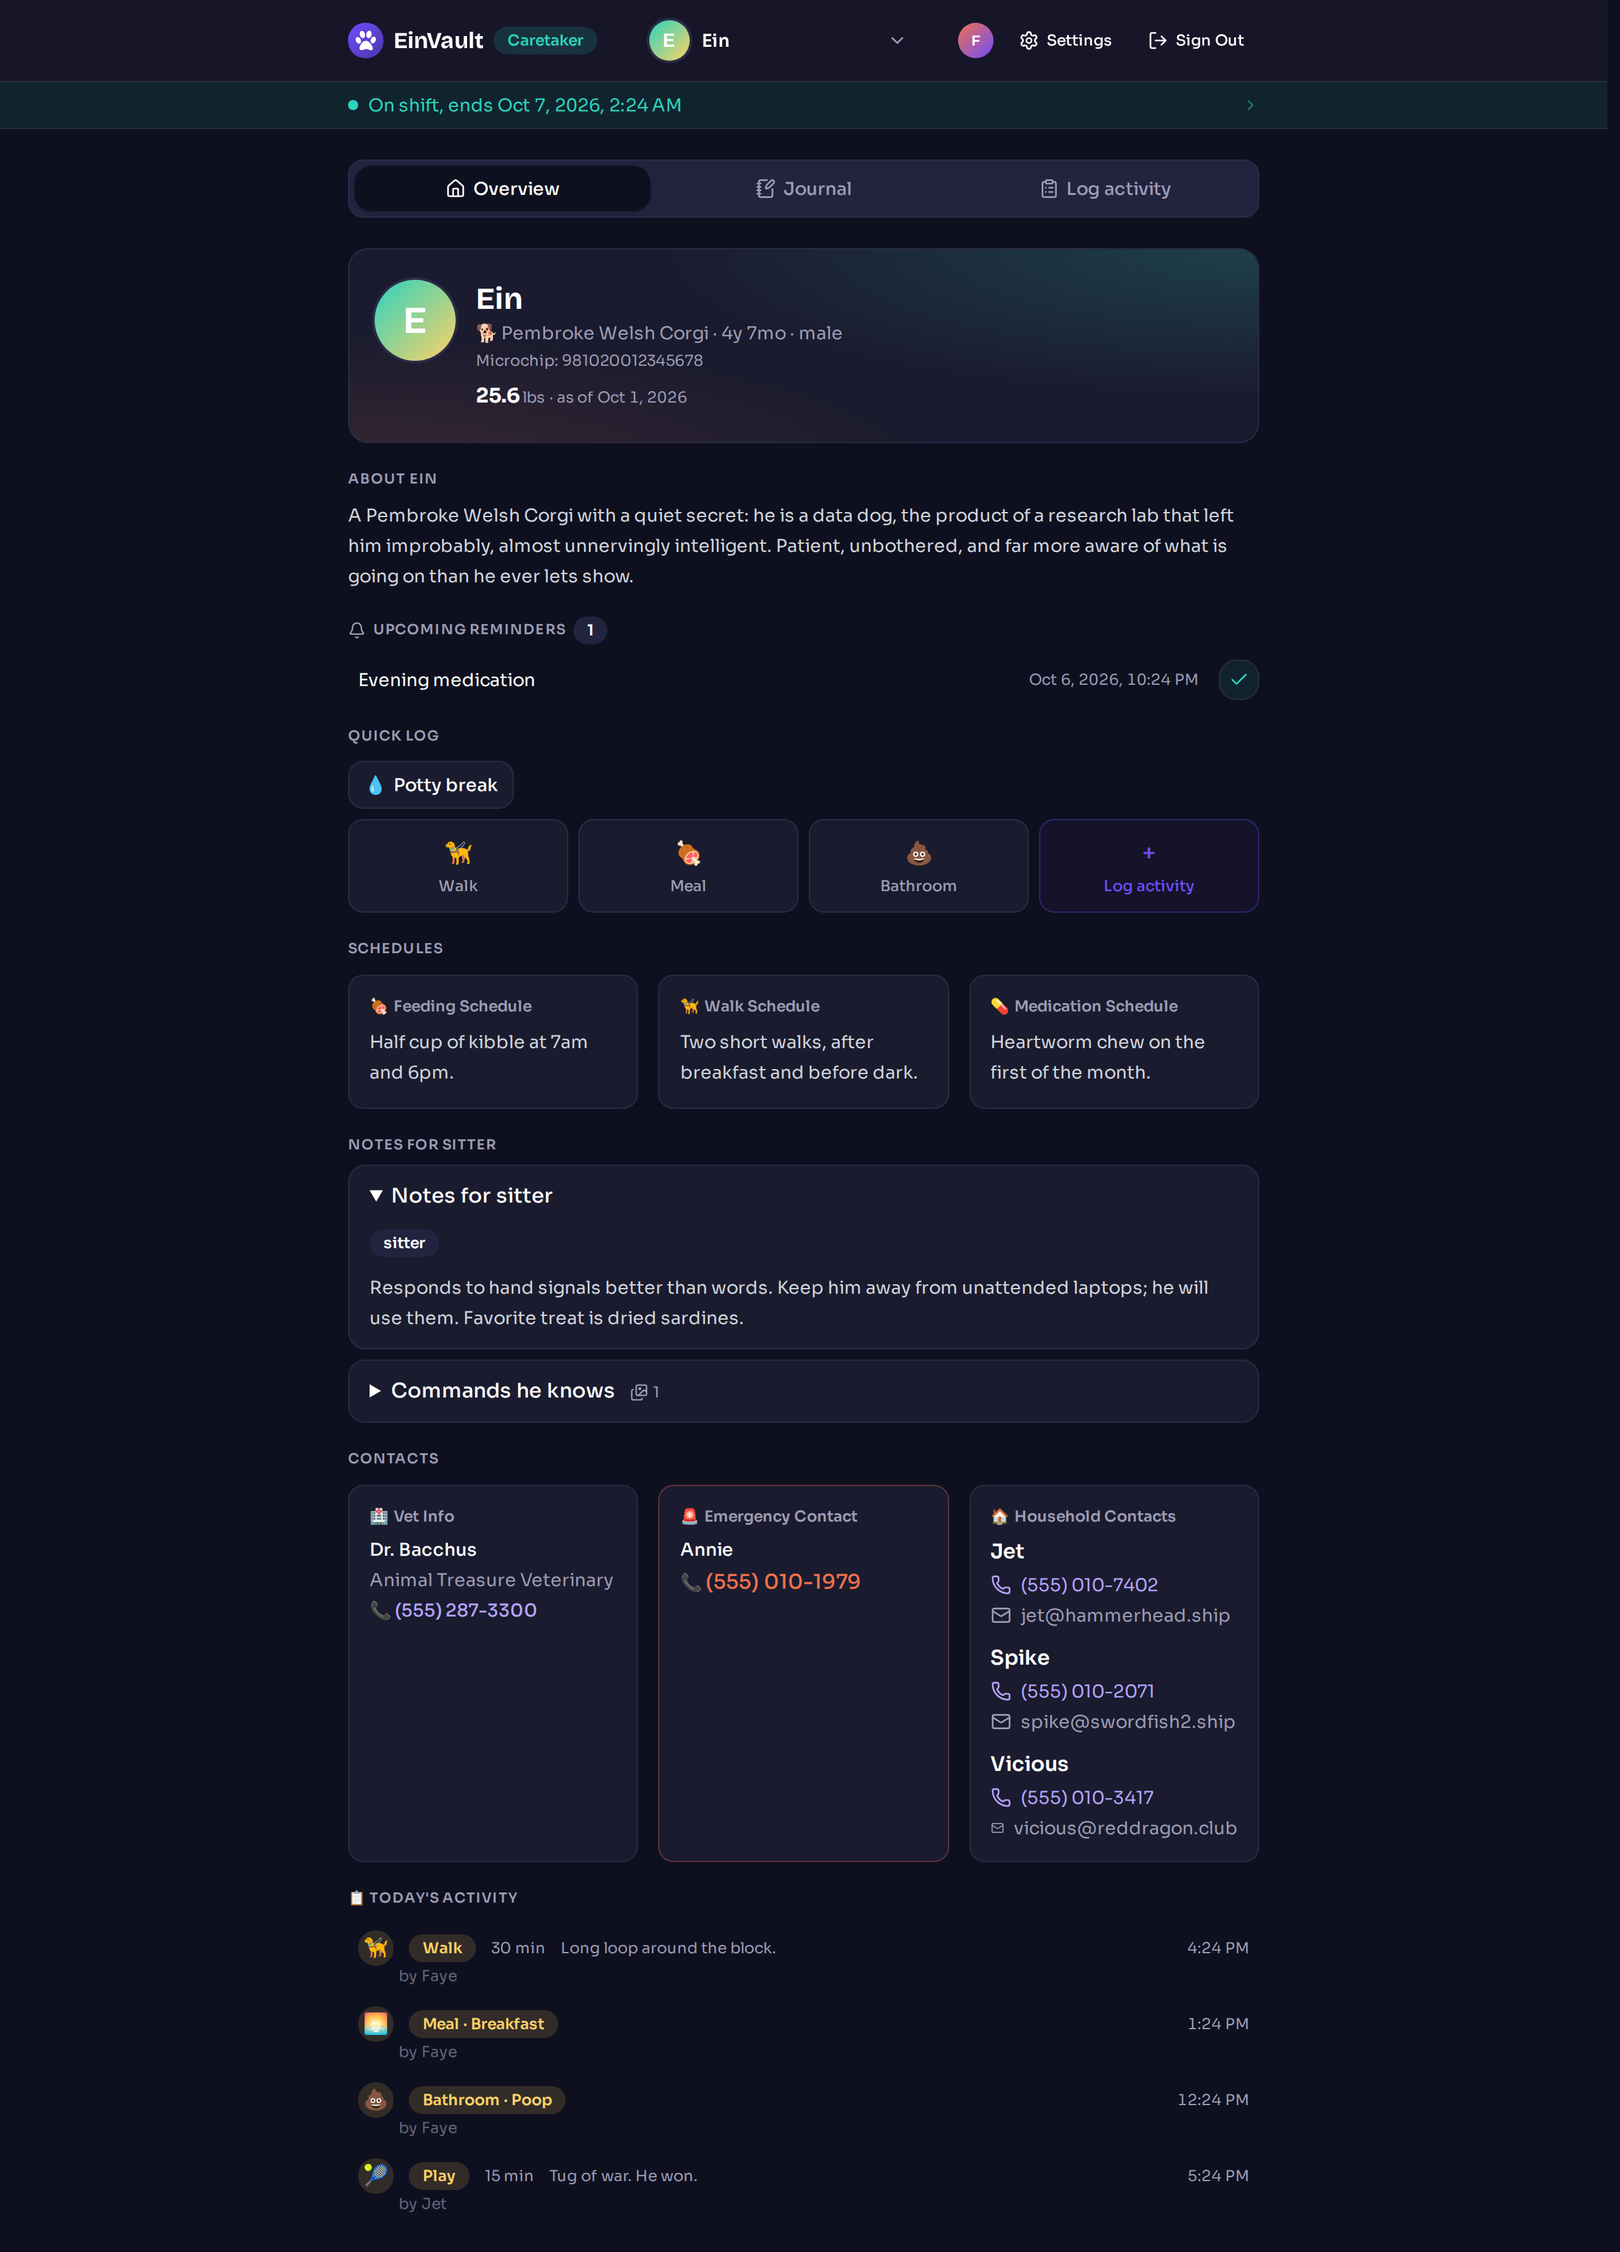
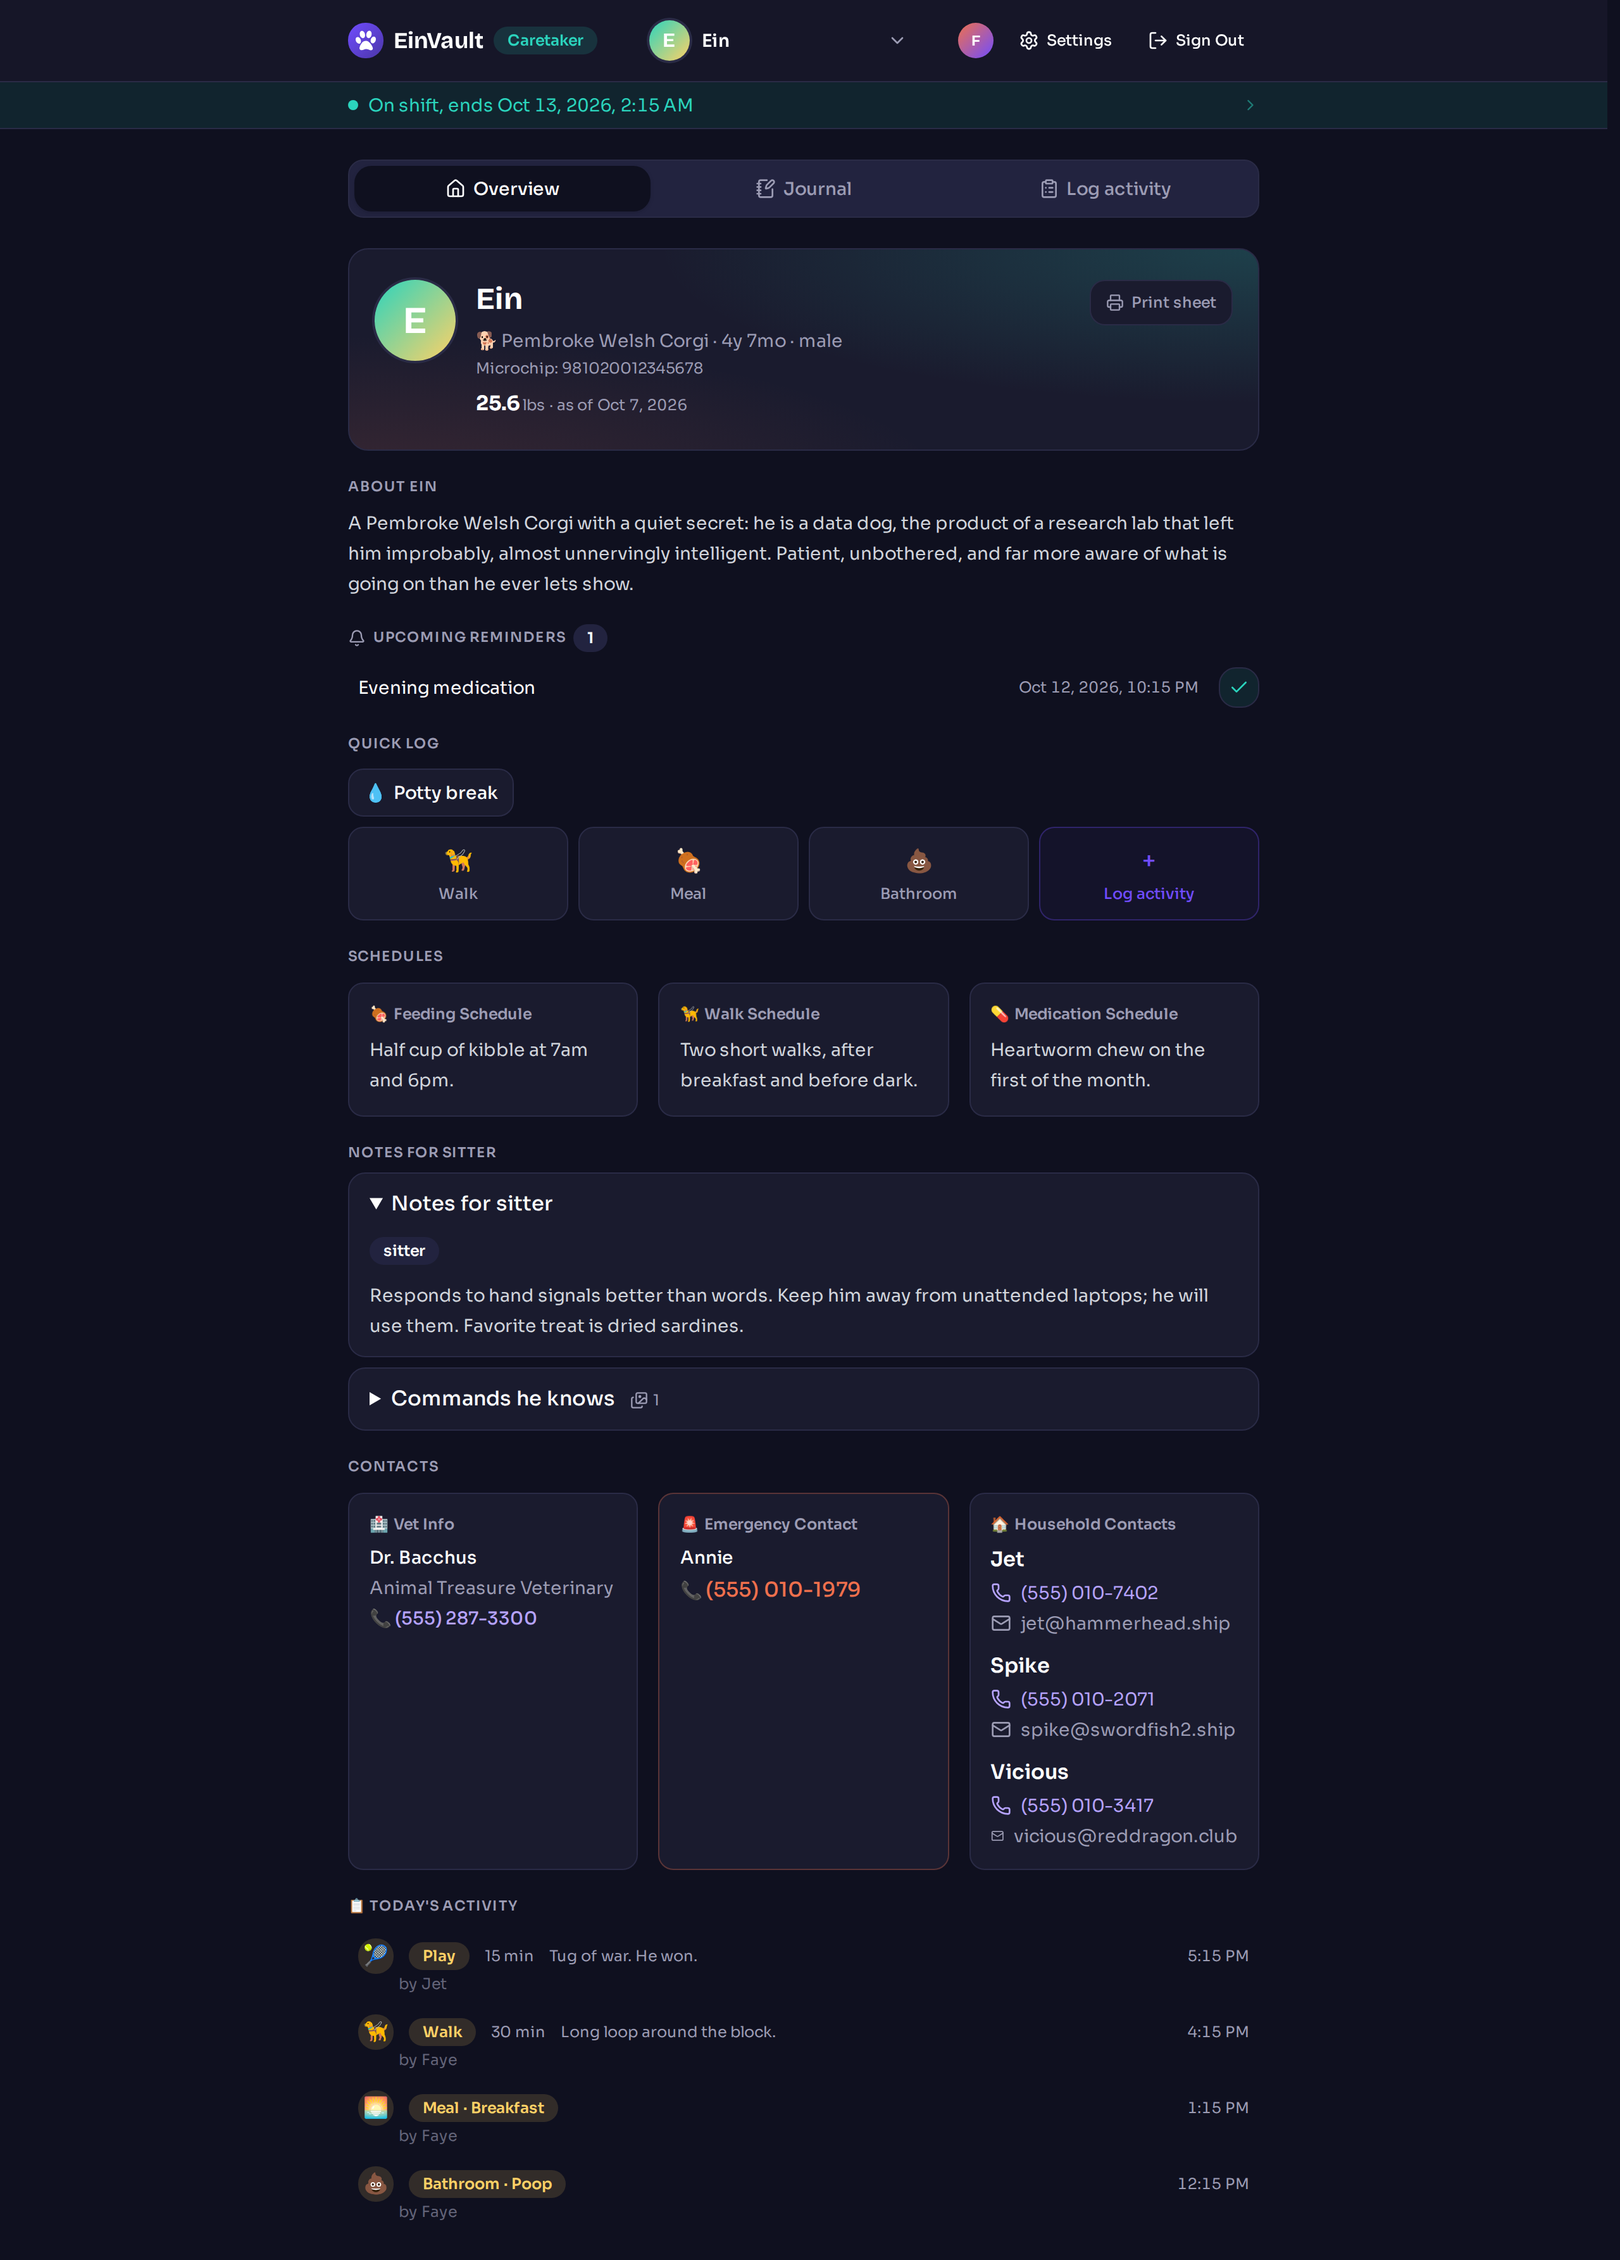
Bump version to 1.8.0 (#356)
* docs: refresh screenshots for 1.8.0

Add the caretaker sheet to the capture set, and refresh the companion overview and caretaker dashboard shots for the new print buttons.

* Bump version to 1.8.0

diff --git a/tests/screenshots/capture.spec.ts b/tests/screenshots/capture.spec.ts
@@ -29,6 +29,7 @@ const SHOTS: Shot[] = [
 	{ name: 'member_health', role: 'member', path: `/${EIN}/health` },
 	{ name: 'member_notes', role: 'member', path: `/${EIN}/notes` },
 	{ name: 'member_note', role: 'member', path: `/${EIN}/notes/${SEED.notes.einCommands.id}` },
+	{ name: 'member_sheet', role: 'member', path: `/${EIN}/sheet` },
 	{ name: 'member_admin', role: 'admin', path: '/admin/users' },
 	{ name: 'caretaker_dashboard', role: 'caretaker', path: `/care/${EIN}` },
 	{ name: 'caretaker_dashboard_mobile', role: 'caretaker', path: `/care/${EIN}`, mobile: true },

diff --git a/README.md b/README.md
@@ -5,7 +5,7 @@
 # EinVault
 
 [![License: MIT](https://img.shields.io/badge/License-MIT-blue.svg)](LICENSE)
-[![Version](https://img.shields.io/badge/version-1.7.1-7348f4.svg)](https://github.com/davefatkin/EinVault/releases)
+[![Version](https://img.shields.io/badge/version-1.8.0-7348f4.svg)](https://github.com/davefatkin/EinVault/releases)
 
 EinVault is a private, self-hosted companion health and care tracker built for homelabs. Track health records, daily activities, and care schedules for your animal companions. All data stays on your hardware. No cloud, no telemetry, no external accounts.
 

diff --git a/docs/SCREENSHOTS.md b/docs/SCREENSHOTS.md
@@ -37,6 +37,11 @@
 ![Note dark](screenshots/member_note_dark.png)
 ![Note light](screenshots/member_note_light.png)
 
+### Caretaker sheet
+
+![Caretaker sheet dark](screenshots/member_sheet_dark.png)
+![Caretaker sheet light](screenshots/member_sheet_light.png)
+
 ### Admin panel
 
 ![Admin panel dark](screenshots/member_admin_dark.png)
